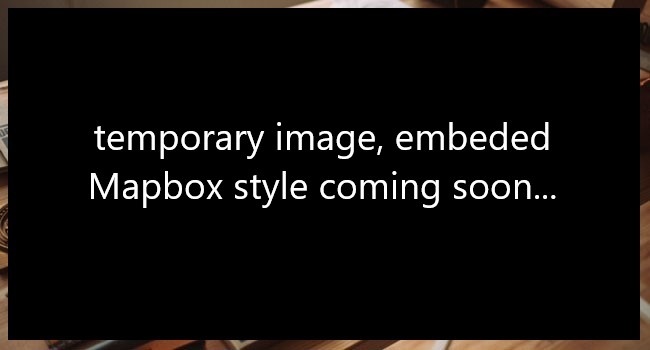
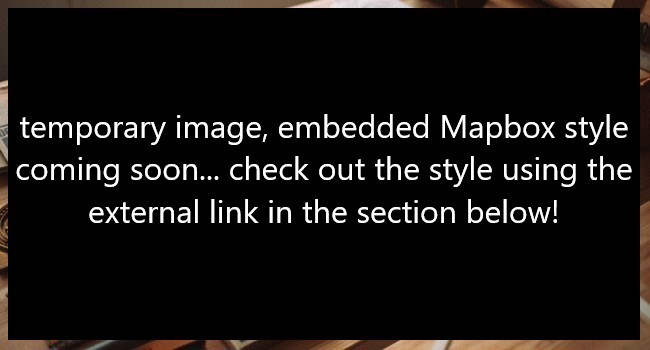
Update_12/15/19
Update_12/15/19

Changed region(s): [[0.0, 0.3143, 0.9846, 0.6571]]

diff --git a/index.html b/index.html
@@ -87,10 +87,10 @@
             <img class="img-fluid" src="img/portfolio/thumbnails/2.jpg" alt="">
             <div class="portfolio-box-caption">
               <div class="project-category text-white-50">
-                Geography 572
+                Geography 370
               </div>
               <div class="project-name">
-                Longform Infographic
+                American Runs On...
               </div>
             </div>
           </a>
@@ -152,10 +152,18 @@
   </section>
 
   <!-- Call to Action Section -->
-  <section class="page-section bg-dark text-white">
+  <section class="page-section bg-white text-dark">
     <div class="container text-center">
       <h2 class="mb-4">Check out my Mapbox Style using the button below</h2>
-      <a class="btn btn-light btn-xl" href="https://api.mapbox.com/styles/v1/pierson/ck2u3j35d5yad1cnw8edb5e4n.html?fresh=true&title=view&access_token=pk.eyJ1IjoicGllcnNvbiIsImEiOiJjanp6c2ZvMjIwZWdjM21waXJpNzhsYTdlIn0.WnrNdPyPhiFYUuoYKF1caw#13.2/40.727021/-73.991866/0">Go to Style!</a>
+      <a class="btn btn-dark btn-xl" href="https://api.mapbox.com/styles/v1/pierson/ck2u3j35d5yad1cnw8edb5e4n.html?fresh=true&title=view&access_token=pk.eyJ1IjoicGllcnNvbiIsImEiOiJjanp6c2ZvMjIwZWdjM21waXJpNzhsYTdlIn0.WnrNdPyPhiFYUuoYKF1caw#13.2/40.727021/-73.991866/0">Go to Style!</a>
+    </div>
+  </section>
+
+   <!-- Call to Action Section -->
+  <section class="page-section bg-dark text-white">
+    <div class="container text-center">
+      <h2 class="mb-4">Check out my side project using the button below</h2>
+      <a class="btn btn-light btn-xl" href="https://christopher-pierson.github.io/TrueCrimeCompanion/">Go to True Crime Companion!</a>
     </div>
   </section>
 
@@ -174,19 +182,18 @@
           <h2 class="mt-0">Contact Information</h2>
           <hr class="divider my-4">
           <p class="text-muted mb-5">Feel free to reach out if you have any questions - looking forward to chatting with you!</p>
-        </div>
-      </div>
-      <div class="row">
-        <div class="col-lg-4 ml-auto text-center mb-5 mb-lg-0">
-          <i class="fas fa-phone fa-3x mb-3 text-muted"></i>
-          <div>+1 (571) 246-1393</div>
-        </div>
-        <div class="col-lg-4 mr-auto text-center">
+          <div>
           <i class="fas fa-envelope fa-3x mb-3 text-muted"></i>
           <!-- Make sure to change the email address in anchor text AND the link below! -->
           <a class="d-block" href="mailto:christopher.pierson@wisc.edu">christopher.pierson@wisc.edu</a>
           <a class="d-block" href="mailto:christopher.pierson@me.com">christopher.pierson@me.com</a>
         </div>
+          <div>
+         <p class="text-muted mb-5">   </p>
+            <i class="fas fa-phone fa-3x mb-3 text-muted"></i>
+          <div>+1 (571) 246-1393</div>
+        </div>
+      </div>
       </div>
     </div>
   </section>
